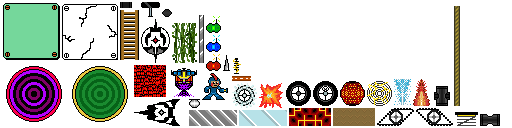
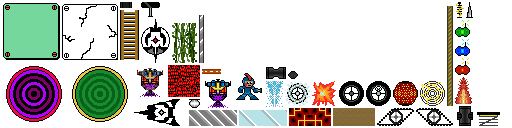
updated breakable box sprite extensible patch as well as gigagal to fall when standing atop deactivated box

diff --git a/core/src/com/udacity/gamedev/gigagal/app/LevelUpdater.java b/core/src/com/udacity/gamedev/gigagal/app/LevelUpdater.java
@@ -149,7 +149,6 @@ public class LevelUpdater {
                 BreakableBox box = (BreakableBox) grounds.get(i);
                 if (!box.isActive()) {
                     grounds.removeIndex(i);
-                    System.out.println("2");
                 }
             }
         }
@@ -167,7 +166,6 @@ public class LevelUpdater {
                         BreakableBox box = (BreakableBox) hazards.get(i);
                         box.deactivate();
                         hazards.removeIndex(i);
-                        System.out.println("1");
                     } else {
                         hazards.removeIndex(i);
                         score += (destructible.getKillScore() * Constants.DIFFICULTY_MULTIPLIER[SaveData.getDifficulty()]);

diff --git a/core/src/com/udacity/gamedev/gigagal/entity/GigaGal.java b/core/src/com/udacity/gamedev/gigagal/entity/GigaGal.java
@@ -391,6 +391,11 @@ public class GigaGal implements Humanoid {
                 Random xKnockback = new Random();
                 velocity.set(Helpers.absoluteToDirectionalValue(xKnockback.nextFloat() * 200, directionX, Orientation.X), Constants.FLAME_KNOCKBACK.y);
                 recoil(velocity);
+            } else if (ground instanceof BreakableBox) {
+                BreakableBox box = (BreakableBox) ground;
+                if (!box.isActive()) {
+                    fall();
+                }
             }
         }
     }
